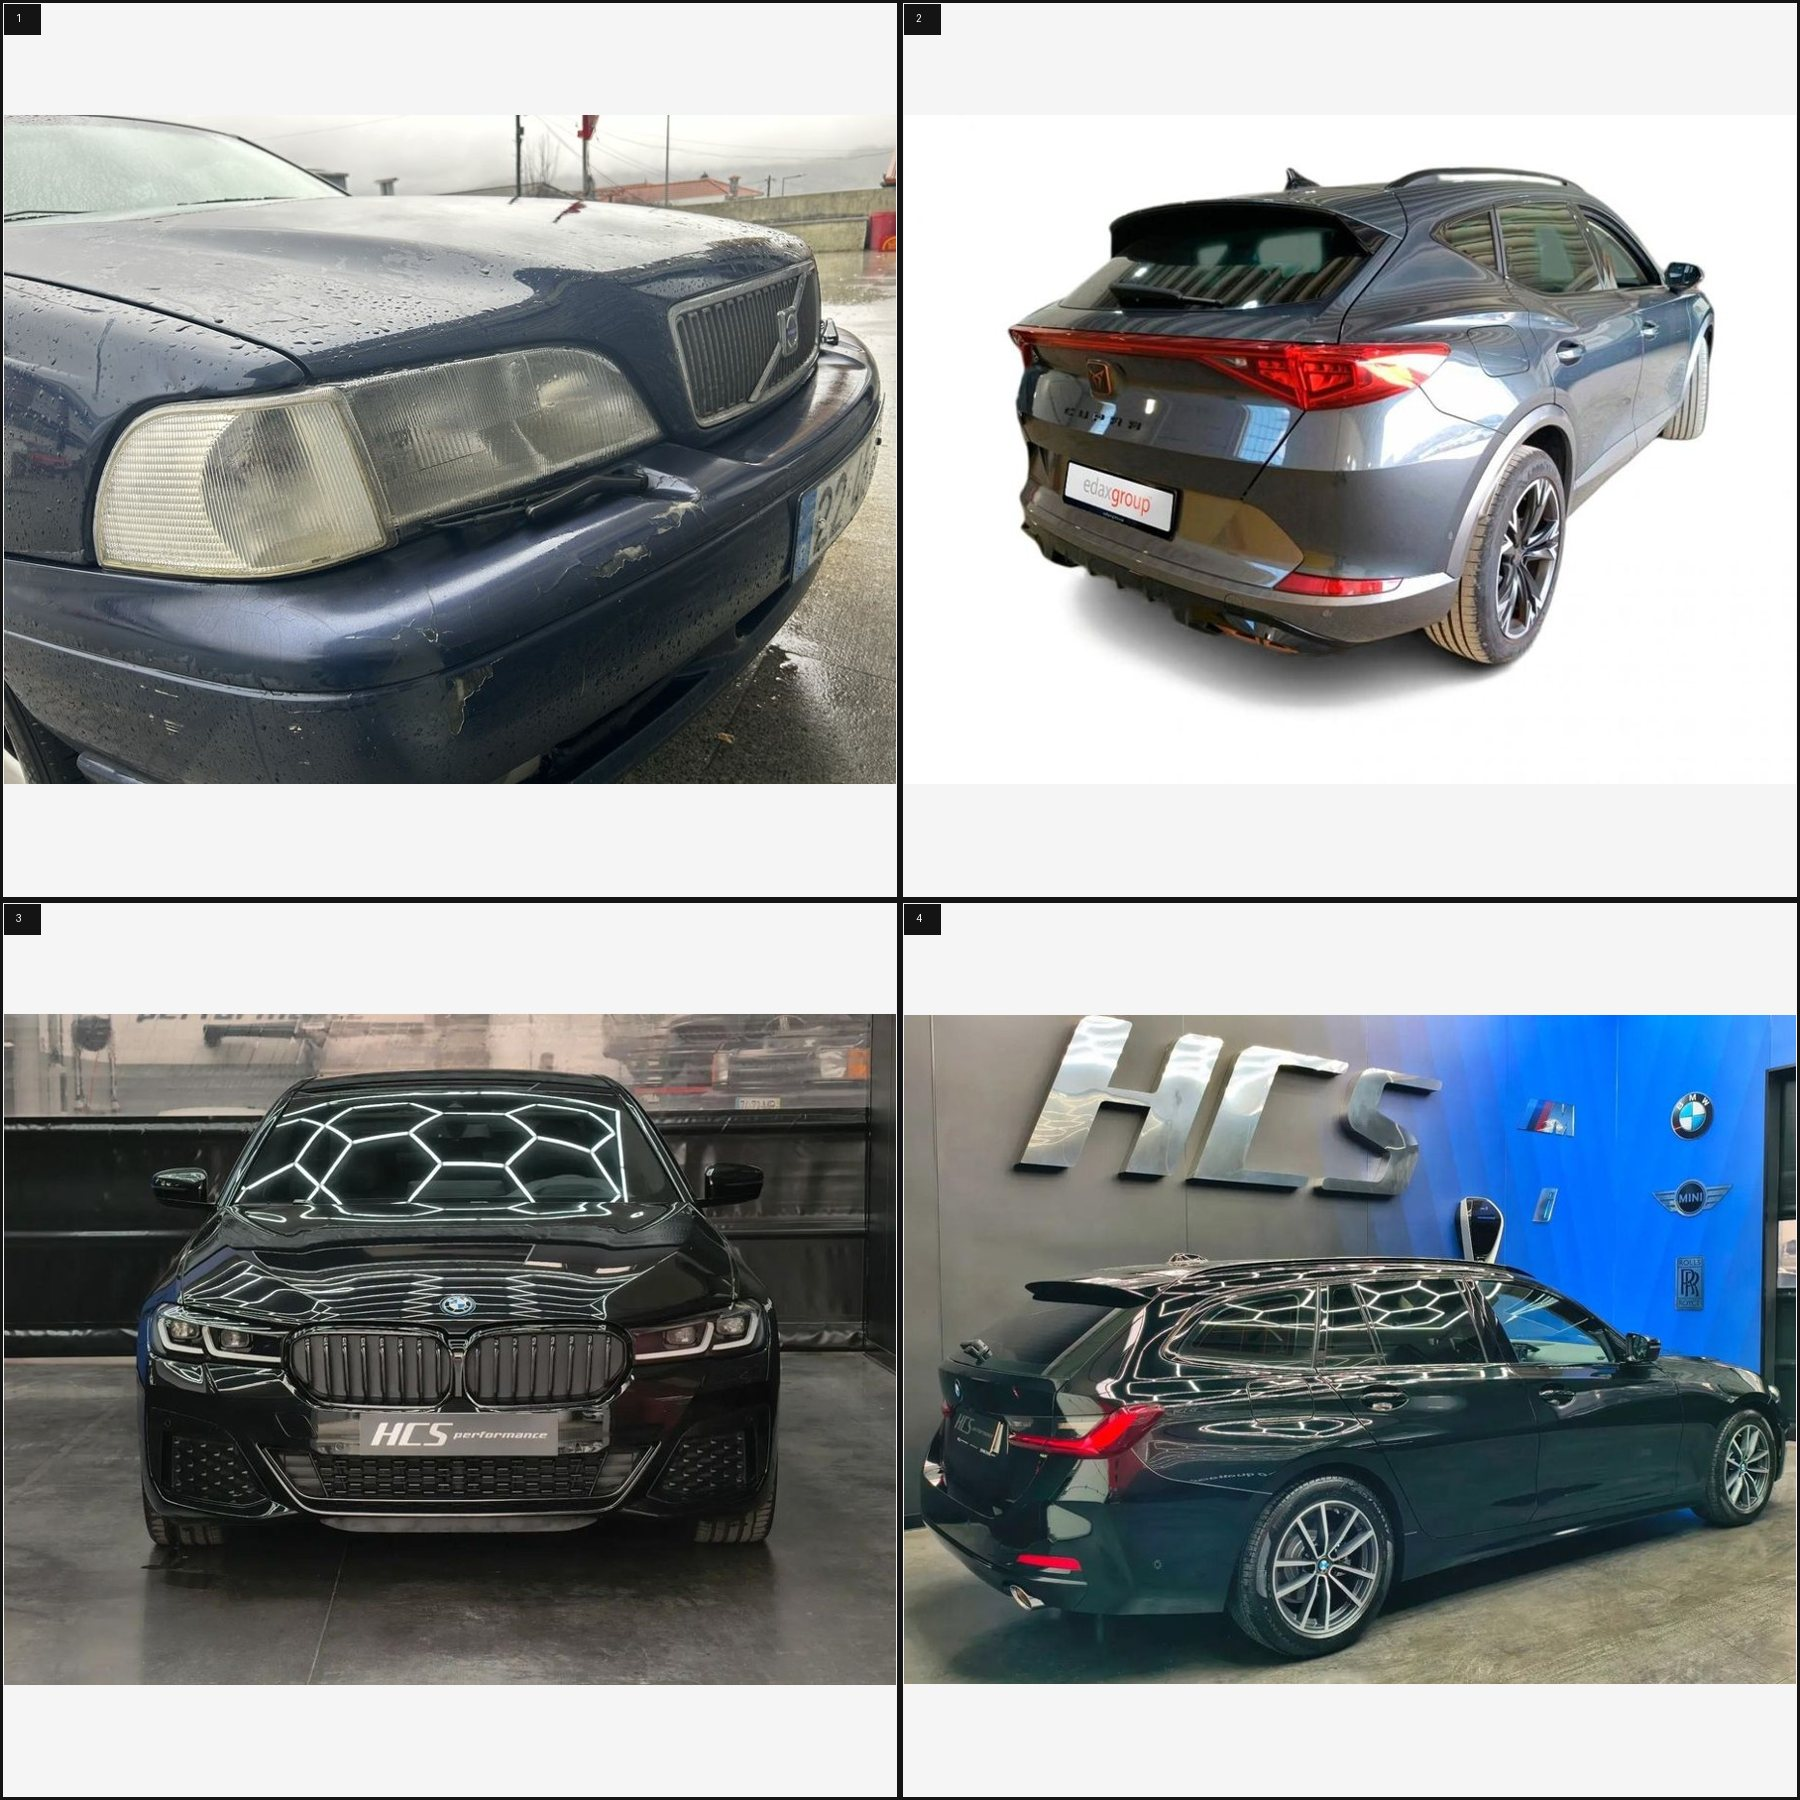
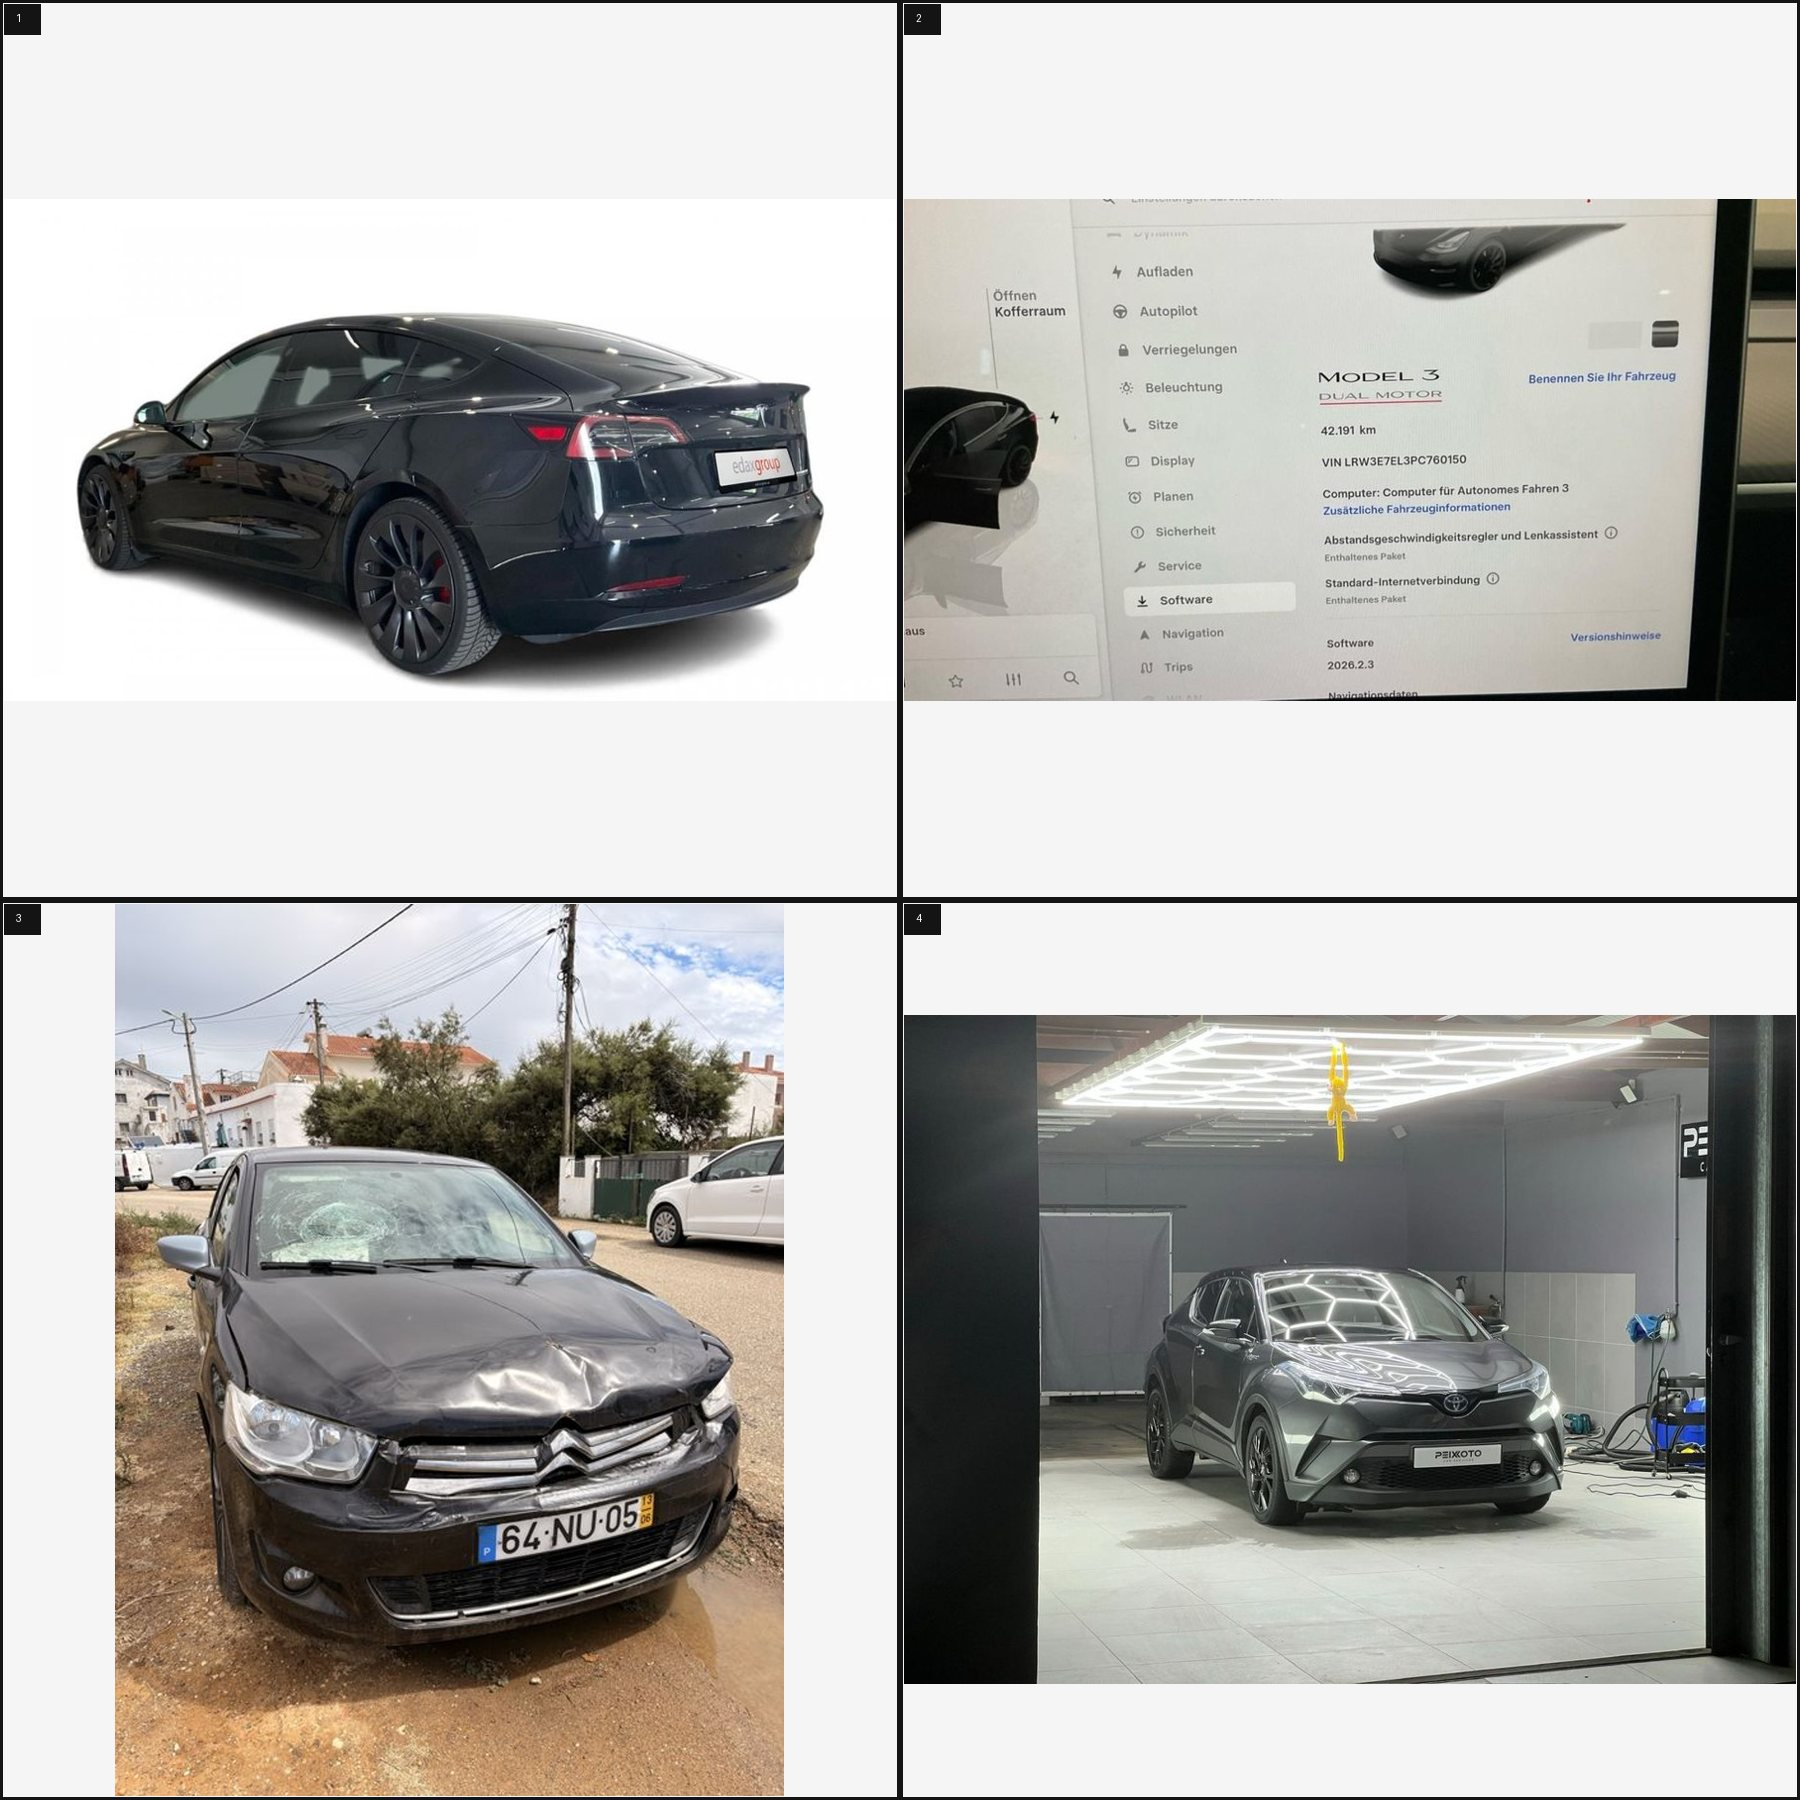
damage-seg: 60 photos annotated + a product-level eval
Twelve more photos through the 4-up sheets: 36 with damage (90 instances) and
24 deliberate negatives across 32 listings. The negatives are the point of the
last few sheets — studio cut-outs, showroom BMWs, a dusty Peugeot in a garage,
and one screenshot of a Tesla touchscreen that slipped past the CLIP exterior
filter. Those are the frames the ResNet50 scores 1.00 on.

damage_seg_eval.py reports what the product actually decides on. mAP is the
right metric for a detector and the wrong one for this call: the question is
"when it says damaged, is it?", because that verdict vetoes a listing out of
the feed. So it also reports IMAGE-level precision/recall at several
confidence thresholds — directly comparable to the 0.20 precision measured for
the ResNet on production photos.

diff --git a/scripts/damage_seg_eval.py b/scripts/damage_seg_eval.py
@@ -1,0 +1,68 @@
+"""Evaluate the damage detector on held-out photos, in the terms the product uses.
+
+mAP is the right metric for a detector and the wrong one for this decision. The
+production question is not "how tight are the boxes" — it is "when this model
+says a car is damaged, is it?", because that verdict currently vetoes a listing
+out of the deal feed. So this reports both: ultralytics' mAP for the detector,
+and an IMAGE-level precision/recall at a confidence threshold, which is the
+number comparable to the ResNet50 it would replace (0.20 precision measured on
+production photos, 2026-08-23).
+
+Image-level truth = the photo has at least one annotated damage instance.
+Image-level prediction = the model returns at least one box above the threshold.
+"""
+from __future__ import annotations
+
+import argparse
+from pathlib import Path
+
+ROOT = Path(__file__).resolve().parent.parent / "data" / "damage_seg"
+
+
+def main(weights: Path, split: str, thresholds: list[float]) -> None:
+    from ultralytics import YOLO
+
+    model = YOLO(str(weights))
+    img_dir = ROOT / "subset" / "images" / split
+    lbl_dir = ROOT / "subset" / "labels" / split
+    images = sorted(img_dir.glob("*.jpg"))
+    truth = {
+        p.stem: bool((lbl_dir / f"{p.stem}.txt").read_text().strip())
+        for p in images if (lbl_dir / f"{p.stem}.txt").exists()
+    }
+    print(f"{split}: {len(truth)} images, {sum(truth.values())} with damage")
+
+    # One inference pass at the lowest threshold, then re-threshold in python —
+    # running the model once per threshold would be the same numbers at 4x cost.
+    lowest = min(thresholds)
+    scores: dict[str, float] = {}
+    for p in images:
+        r = model.predict(str(p), conf=lowest, verbose=False)[0]
+        confs = r.boxes.conf.tolist() if r.boxes is not None else []
+        scores[p.stem] = max(confs) if confs else 0.0
+
+    print(f"\n{'conf':>6} {'TP':>4} {'FP':>4} {'FN':>4} {'TN':>4} "
+          f"{'precision':>10} {'recall':>7} {'F1':>6}")
+    for t in thresholds:
+        tp = sum(1 for k, g in truth.items() if g and scores[k] >= t)
+        fp = sum(1 for k, g in truth.items() if not g and scores[k] >= t)
+        fn = sum(1 for k, g in truth.items() if g and scores[k] < t)
+        tn = sum(1 for k, g in truth.items() if not g and scores[k] < t)
+        prec = tp / (tp + fp) if tp + fp else float("nan")
+        rec = tp / (tp + fn) if tp + fn else float("nan")
+        f1 = 2 * prec * rec / (prec + rec) if tp and prec + rec else 0.0
+        print(f"{t:>6.2f} {tp:>4} {fp:>4} {fn:>4} {tn:>4} {prec:>10.2f} {rec:>7.2f} {f1:>6.2f}")
+
+    print("\nper-image max confidence (truth in brackets):")
+    for k in sorted(scores, key=lambda k: -scores[k]):
+        print(f"  {k:<16} {scores[k]:.3f}  [{'damage' if truth[k] else 'clean '}]")
+
+
+if __name__ == "__main__":
+    ap = argparse.ArgumentParser()
+    ap.add_argument("--weights", type=Path, default=Path("/tmp/yolo_dmg/v1/weights/best.pt"))
+    ap.add_argument("--split", default="val")
+    ap.add_argument("--thresholds", type=float, nargs="+",
+                    default=[0.10, 0.20, 0.30, 0.50])
+    a = ap.parse_args()
+    main(a.weights, a.split, a.thresholds)
